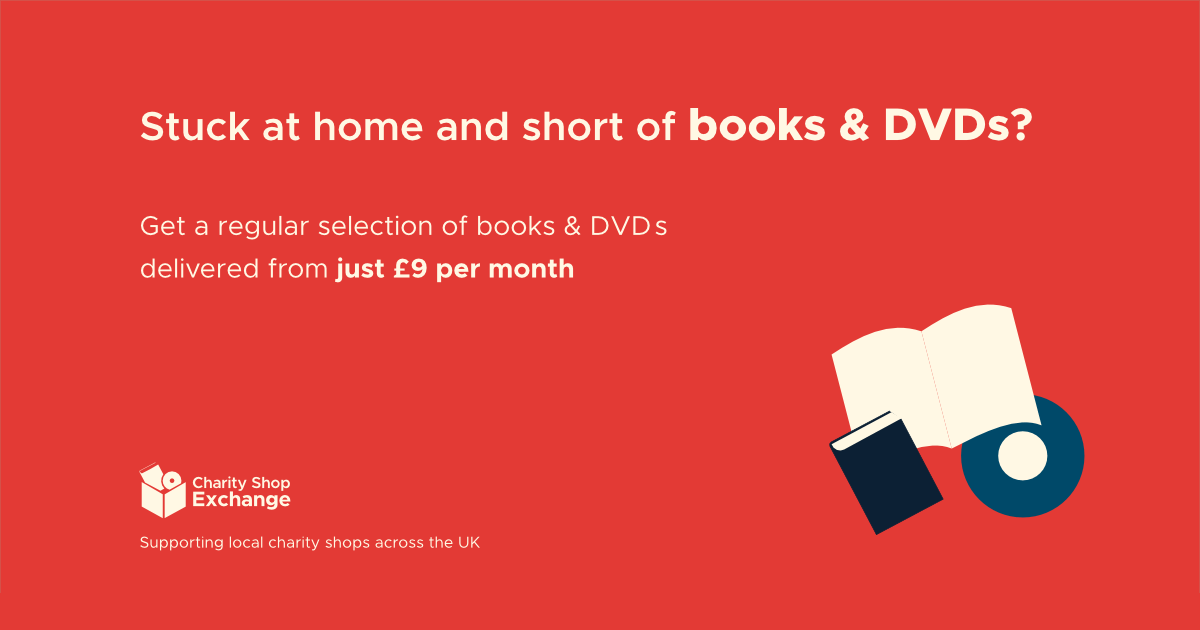
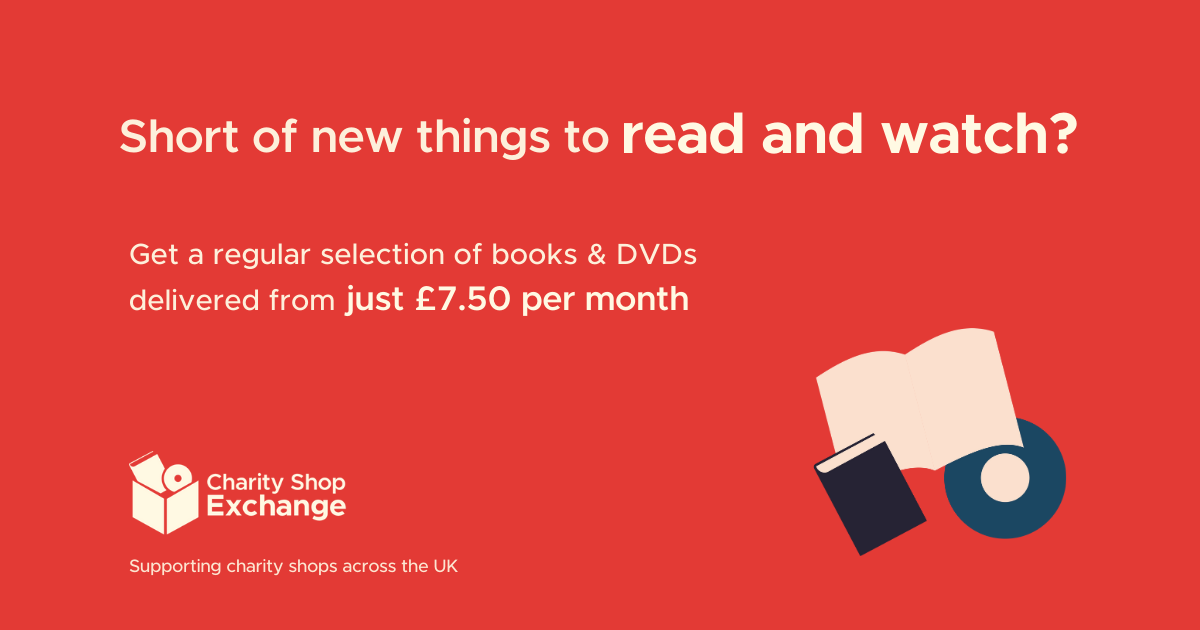
ogImage
ogImage

OG image

OG image

OG image

OG image

OG image

OG image

diff --git a/client/src/components/Home/Hero.js b/client/src/components/Home/Hero.js
@@ -1,4 +1,5 @@
 import React from 'react';
+
 import newhero from "../../assets/img/newHeroImageonly.svg";
 
 export default function Hero() {
@@ -8,7 +9,7 @@ export default function Hero() {
         {/* hero left */}
         <div className="flex flex-col items-start sm:w-1/2 md:w-2/3 sm:mr-2">
           <h1 className="font-header text-3xl sm:text-4xl lg:text-5xl font-bold text-new-red leading-tight">
-            Fighting&nbsp;isolation<br></br> with books and DVDs
+            Fighting&nbsp;isolation<br /> with books and DVDs
           </h1>
           <h3 className="text-sm mt-3 sm:text-sm md:text-md lg:text-lg text-gray-600 font-medium mb-12 sm:mb-12">
             Get a regular supply of things to read and watch.

diff --git a/client/public/index.html b/client/public/index.html
@@ -32,7 +32,7 @@
     <meta property="og:type" content="website" />
     <meta property="og:title" content="Charity Shop Exchange" />
     <meta property="og:description" content="Fight isolation with books and DVDs! Charity Shop Exchange collects a selection of books and DVDs from local charity shops and delivers weekly, bi-weekly or monthly - it's up to you." />
-    <meta property="og:image" content="https://charityshopexchange.com/static/media/cse-og-generic.a902520e.png" />    
+    <meta property="og:image" content="https://charityshopexchange.com//static/media/cse-og-generic.8de18678.png" />    
 
     <meta charset="utf-8" />
     <link rel="icon" href="%PUBLIC_URL%/favicon-128.png" sizes="128x128"/>
